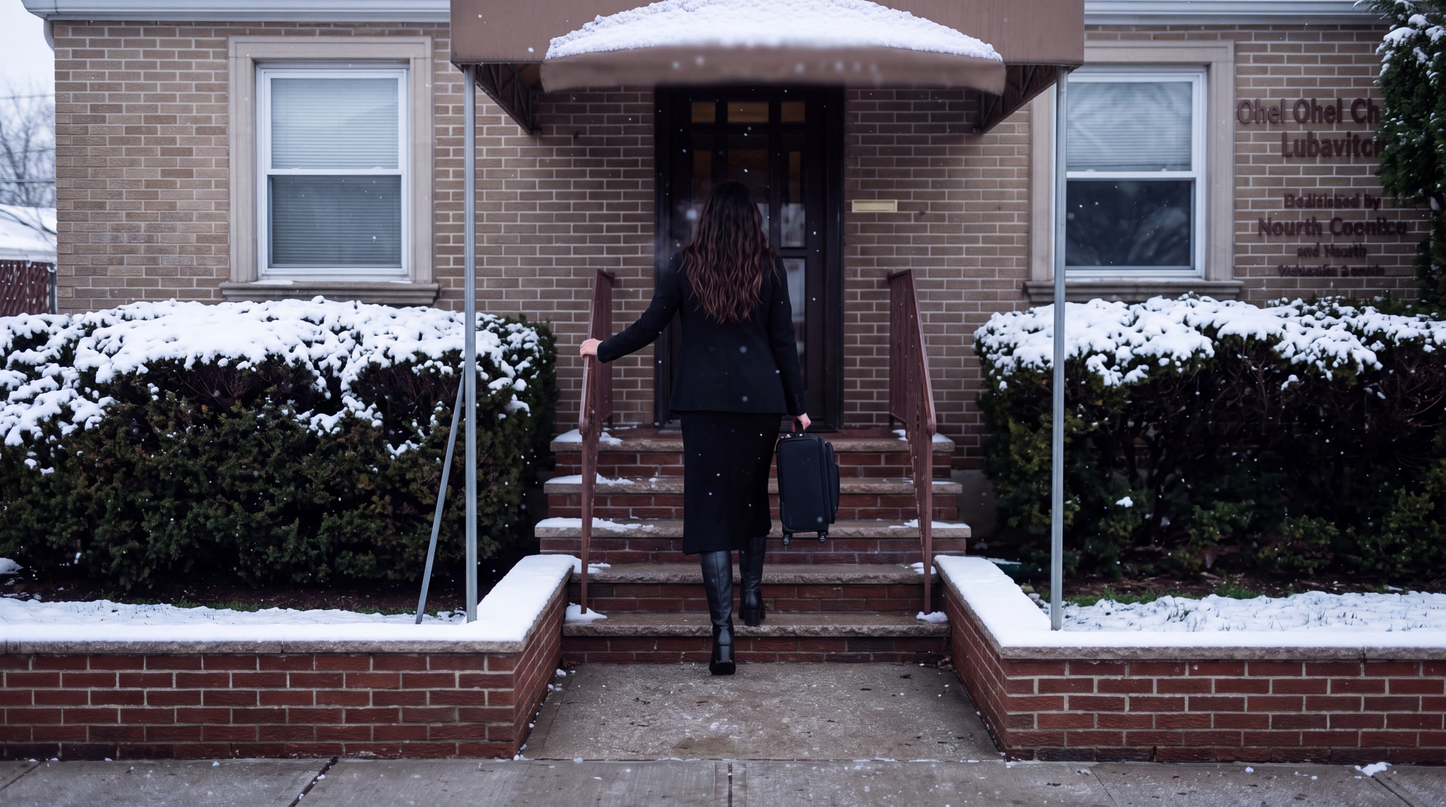
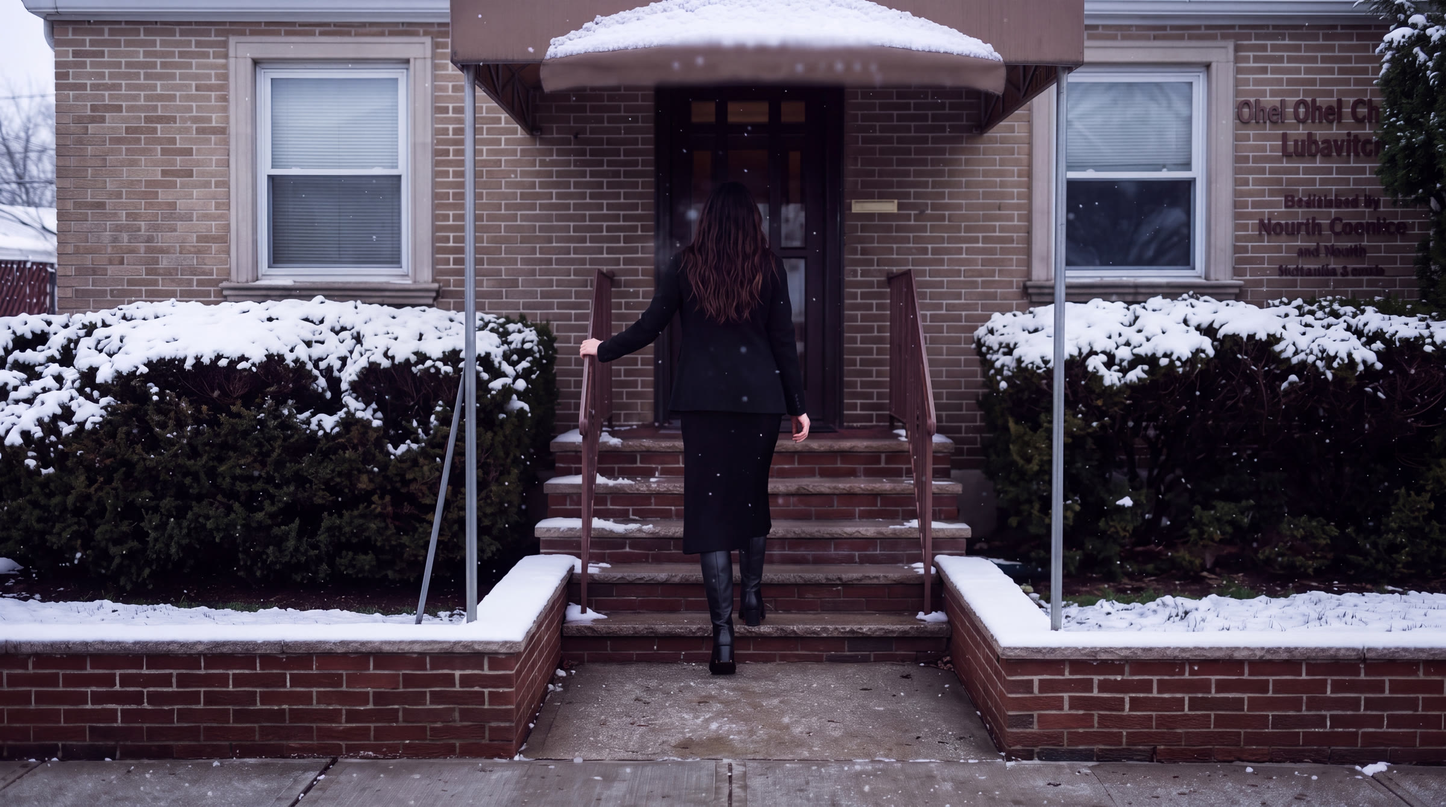
Séquence 2 : valise retirée, Ohel corrigé (visiteurs devant le muret)
Claude-Session: https://claude.ai/code/session_01FDkXSruYP2nSK7GDo2br1M

diff --git a/outputs/shirel-lyron/04-controle-qualite.md b/outputs/shirel-lyron/04-controle-qualite.md
@@ -143,7 +143,8 @@ Fitted white long-sleeve mini dress in a soft, slightly sheer jersey, high round
 | Séquence 2 · image test 2.7 (Lyron au taxi jaune devant l'Ohel) | `5613b3bb-3f45-4281-9fe3-1cf396f33619` : façade fidèle (auvent, marches, muret, haies sous la neige), taxi jaune, visage = sheet, petite kippa, golfes discrets, tsitsit ✓ | 3 |
 | Séquence 2 · 8 images clés | 2.0 `464d4cd7-e4c0-4e31-951d-815d4b6fc561` (1er essai `ec48de16` échoué côté Higgsfield) ✓ · 2.1 `1dbacdde-2784-485f-8678-36343def83ae` (cadrage différent de 2.4, petit pupitre au lieu de la longue table) · 2.2 `0ee26223-2081-44eb-ac2a-d827ac753cfa` ✓ · 2.3 `fd5ad7e0-8e0a-400a-a548-4419d1be0dfc` ✓ · 2.4 `d819a60c-2ae2-47db-b75e-0d4848a8114f` ✓ · 2.5 `19b8b42f-babc-4dec-b89e-4df9a8de74f9` ✗ Shirel nette et du côté des hommes, pas derrière le rideau de chaînettes · 2.6 `38a2f515-b883-4fec-8d25-44dcc42f7dfc` ✓ · 2.8 `68f6d225-1a99-4735-b2e9-c7e9c768b544` ✓ | 24 |
 | Séquence 2 · 5 corrections (retours de Samuel) | 2.0a JFK (nouveau) `074545c3-53c2-49e6-8e53-a98bf8cf6768` ✓ · 2.0 Shirel monte le vrai escalier `ef5b17e7-3e3f-438a-af1a-a9ad01d6a7fa` ✓ (plaque murale à flouter au montage) · 2.3 Lyron monte le vrai escalier `de4bed14-752e-416c-bceb-158ebfc86133` ✓ · 2.2 Ohel avec les deux stèles `4b130a77-0ad4-4bd2-8a84-53cf12847199` ✓ (inscriptions à adoucir au montage) · 2.5 Lyron + Shirel derrière le rideau de chaînettes, stèles floues `86b3349d-3333-4483-848f-98c56a554b29` ✓ | 15 |
-| **Total dépensé** | | **1 021 cr** |
+| Séquence 2 · 3 corrections (retours de Samuel) | 2.0 valise retirée par retouche ciblée (masque) `540b0a78-8b8c-4058-b73d-200f72c42e7a` ✓ main vide · 2.2 Shirel DEVANT le muret (plus dans l'enceinte), vue de 3/4 dos, stèles au fond `7b1e6102-9838-46a7-bf84-ac72d7abef15` ✓ · 2.5 Lyron devant le muret, rideau de chaînettes, Shirel côté femmes `94507209-cb93-40ac-a96b-f17318cc6df6` ✓ | 9 |
+| **Total dépensé** | | **1 030 cr** |
 
 **Références Shirel définitives (v5) :** sheet `da688b2a-951a-4108-a7b6-d6e8cca2e108` · photo réelle `5fc6f1cb-77f2-4008-902c-b8287a3862b6` · T1 voyage `e38c01ef-40d5-47a2-afbc-776a7ba2cd00` · T2 `0b9e3e4a-60aa-4238-befb-4832e5befcdf` · T3 `d951d6b5-89e3-4e50-8d18-107bcc6e47a5` · T4 `b8c2ecc2-d75c-4051-a160-1134c45960b7` · Sourires `39c2ea5a-757e-43e5-a729-688fda2fb476`.
 

diff --git a/outputs/shirel-lyron/05-bible-details.md b/outputs/shirel-lyron/05-bible-details.md
@@ -144,3 +144,6 @@ Ce fichier regroupe toutes les remarques et décisions de Samuel et du client. I
 
 ## Blazer de Shirel (décision de Samuel, 20/10)
 Planche T2 DÉFINITIVE = la v6 (blazer cintré, revers crantés, un bouton), corrigée en **noir pur** sans génération (`references-v5-shirel/tenue-T2-DEFINITIF-blazer-noir.png`). La v7 croisée à boutons dorés est écartée. Le défaut de la v6 était sa teinte bleu marine. Dans chaque prompt : « JET BLACK, pure neutral black, not navy, not dark blue », pour le blazer, la robe et les bottes.
+
+## Ohel : règle d'espace (20/10)
+Les visiteurs se tiennent TOUJOURS à l'extérieur du muret blanc, sur l'allée. Personne n'est dans l'enceinte avec les papiers et les stèles. Dans les prompts : « visitors stand OUTSIDE the white marble wall… nobody stands inside the enclosure ». Cadrage conseillé : de 3/4 dos, par-dessus l'épaule, vers les stèles floues.
